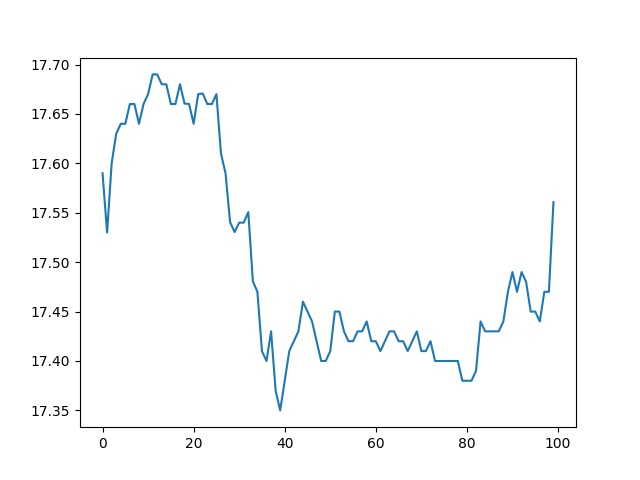
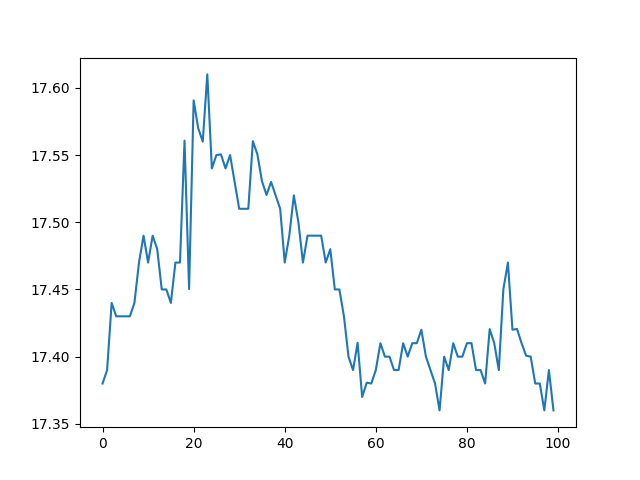
Generate

diff --git a/V1.0/request_http-falido.py b/V1.0/request_http-falido.py
@@ -1,6 +1,8 @@
 import json
+import pandas
 import requests
 import matplotlib.pyplot as plt
+from mpl_finance import candlestick2_ohlc
 import time
 import threading
 from datetime import datetime
@@ -18,17 +20,34 @@ def gerador():
 
         timeSeries = data["Time Series (5min)"]
         open = [float(dado["1. open"]) for dado in timeSeries.values()]
+        high = [float(dado["2. high"]) for dado in timeSeries.values()]
+        low = [float(dado["3. low"]) for dado in timeSeries.values()]
+        close = [float(dado["4. close"]) for dado in timeSeries.values()]
 
         print("gerador =>           " + str(open))
         print("{} {} {}".format(now.hour,now.minute,now.second))
 
-
         for i in range(len(open)):
             valor.append(i)
 
-        plt.plot(valor,open[::-1])
-        plt.savefig('images/'+'c'+str(tot)+'books_read.png')
-        plt.show()
+        openi = (valor,open)
+        highi = (valor,high)
+        lowi = (valor,low)
+        closei = (valor,close)
+
+
+
+        print("3")
+        axi = plt.subplots(figsize=(10,5))
+        print("2")
+        candlestick2_ohlc(axi,openi,highi,lowi,closei,width=6,colorup='k',colordown='r',alpha=0.75)
+        print("1")
+
+
+
+        # plt.plot(valor,open[::-1])
+        # plt.savefig('images/'+'c'+str(tot)+'books_read.jpeg')
+        # plt.show()
 
         tot += 1
 

diff --git a/V1.0/main.py b/V1.0/main.py
@@ -24,8 +24,8 @@ class Program():
         self.frame3 = tk.Frame(root, width=640, height=360, bg='red')
         self.frame3.place(x=640, y=360)
 
-        self.photo = PhotoImage(file="images/c0books_read.jpeg")
-        self.backlabel = Label(self.frame0, image=self.photo).place(x=-1, y=-1)
+        # self.photo = PhotoImage(file="images/c0books_read.jpeg")
+        # self.backlabel = Label(self.frame0, image=self.photo).place(x=-1, y=-1)
 
 
 
